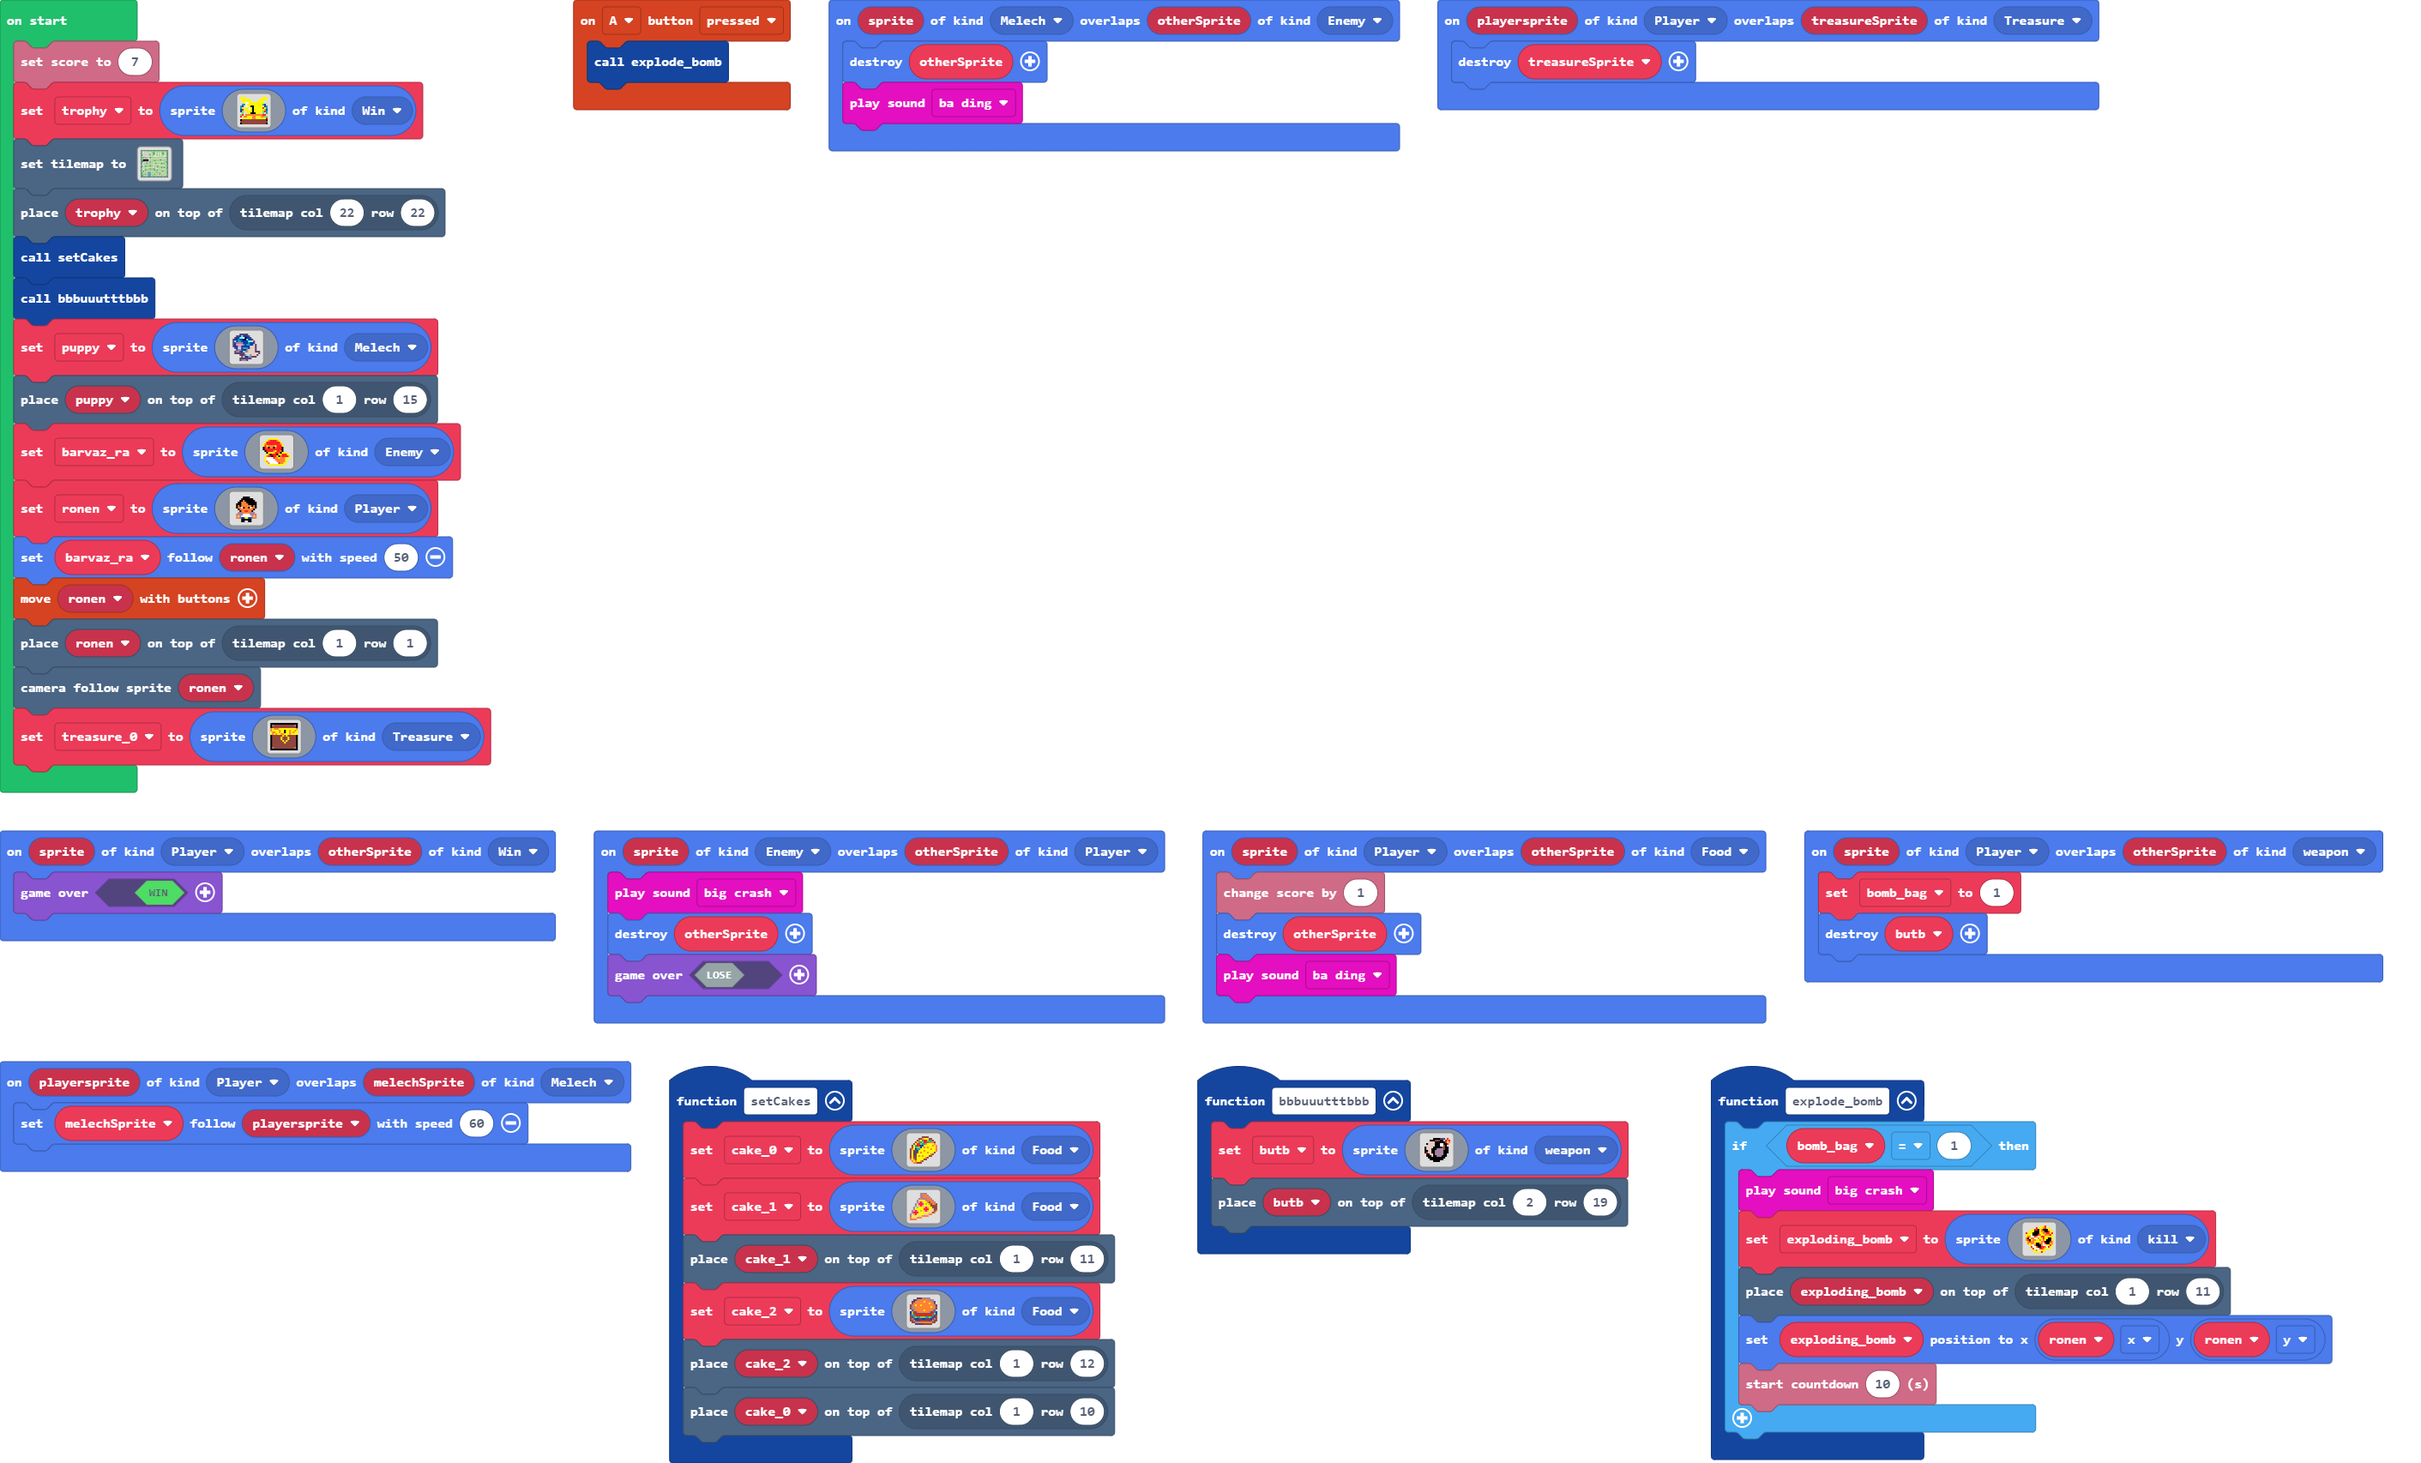
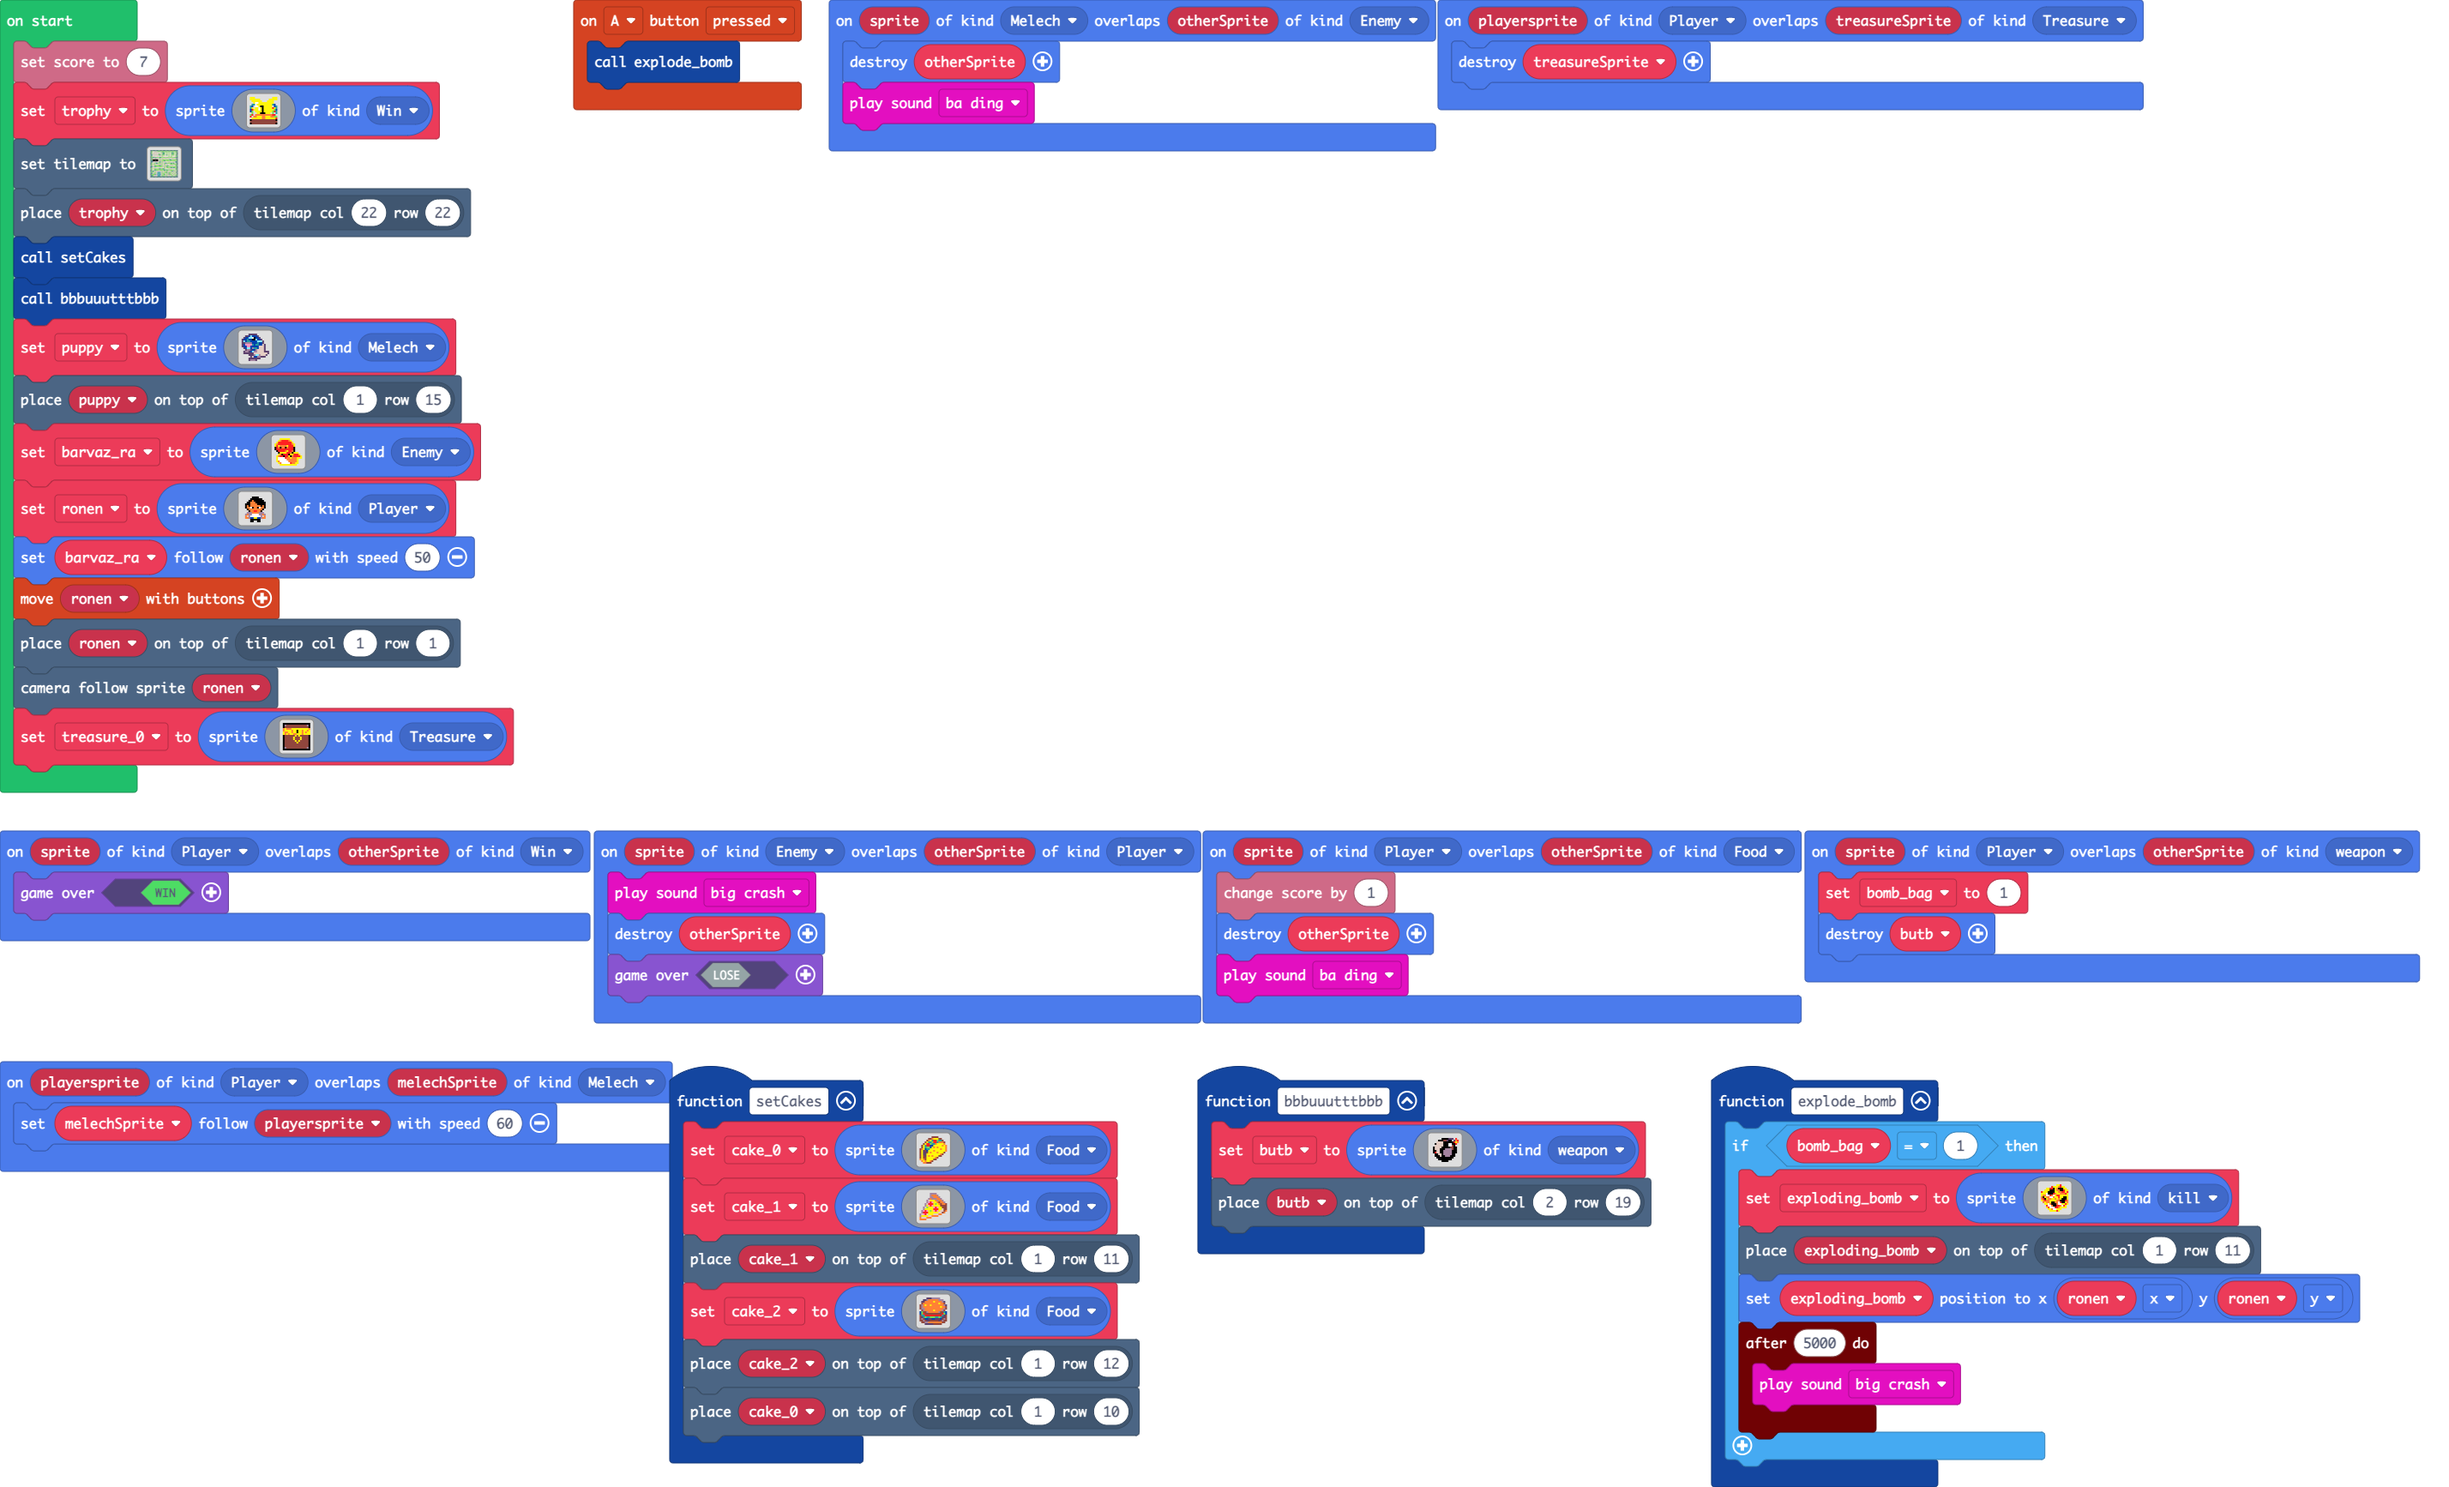
Update main.blocks, main.ts

Changed region(s): [[0.0, 0.0, 0.9975, 1.0], [0.2182, 0.0, 0.8728, 0.1243]]

diff --git a/main.ts b/main.ts
@@ -110,11 +110,12 @@ sprites.onOverlap(SpriteKind.Player, SpriteKind.Food, function (sprite, otherSpr
 })
 function explode_bomb () {
     if (bomb_bag == 1) {
-        music.bigCrash.play()
         exploding_bomb = sprites.create(assets.image`exploding_bomb`, SpriteKind.kill)
         tiles.placeOnTile(exploding_bomb, tiles.getTileLocation(1, 11))
         exploding_bomb.setPosition(ronen.x, ronen.y)
-        info.startCountdown(10)
+        timer.after(5000, function () {
+            music.bigCrash.play()
+        })
     }
 }
 sprites.onOverlap(SpriteKind.Player, SpriteKind.weapon, function (sprite, otherSprite) {
